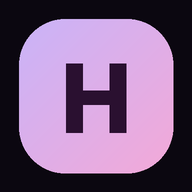
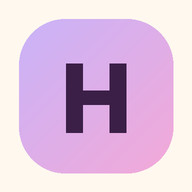
Cream light theme, number-free Welcome home, minimal Dashboard tab (#dash) with expandable cards, rings, bar sparklines; bars-only pastel charts; Nunito figures

diff --git a/public/index.html b/public/index.html
@@ -1,9 +1,9 @@
 <!doctype html>
 <html lang="en"><head><meta charset="utf-8"><meta name="viewport" content="width=device-width,initial-scale=1,viewport-fit=cover">
-<meta name="theme-color" content="#0b0710"><meta name="color-scheme" content="dark"><meta name="apple-mobile-web-app-capable" content="yes"><meta name="mobile-web-app-capable" content="yes">
+<meta name="theme-color" content="#fff8ef"><meta name="color-scheme" content="light"><meta name="apple-mobile-web-app-capable" content="yes"><meta name="mobile-web-app-capable" content="yes">
 <meta name="apple-mobile-web-app-status-bar-style" content="black-translucent"><meta name="apple-mobile-web-app-title" content="Hood Capital">
 <link rel="apple-touch-icon" href="/apple-touch-icon.png"><link rel="icon" href="/icon-192.png"><link rel="manifest" href="/manifest.webmanifest">
-<title>Hood Capital · Loan Dashboard</title><link rel="preload" href="/vendor/inter/inter-latin-wght-normal.woff2" as="font" type="font/woff2" crossorigin>
+<title>Hood Capital · Loan Dashboard</title><link rel="preload" href="/vendor/nunito/nunito-latin-wght-normal.woff2" as="font" type="font/woff2" crossorigin><link rel="preload" href="/vendor/inter/inter-latin-wght-normal.woff2" as="font" type="font/woff2" crossorigin>
 <script src="/vendor/chart.js/chart.umd.js"></script>
 <style>
 @font-face{font-family:'Inter';font-style:normal;font-display:swap;font-weight:100 900;src:url(/vendor/inter/inter-latin-wght-normal.woff2) format('woff2-variations'),url(/vendor/inter/inter-latin-wght-normal.woff2) format('woff2')}
@@ -203,20 +203,125 @@ dialog::backdrop{background:rgba(11,7,16,.75)}
 .rev{border-color:rgba(254,215,170,.35)!important}
 a{color:#f9a8d4}
 input[type=date]::-webkit-calendar-picker-indicator{filter:invert(.85) sepia(.4) hue-rotate(260deg)}
+/* ===== Cream light theme + minimal dashboard ===== */
+@font-face{font-family:'Nunito';font-style:normal;font-display:swap;font-weight:200 1000;src:url(/vendor/nunito/nunito-latin-wght-normal.woff2) format('woff2')}
+:root{color-scheme:light;--bg:#fff8ef;--card:#ffffff;--card2:#fffdf8;--line:#efe4d6;--line2:#e4dcf3;--ink:#3b1f47;--mut:#6e5578;
+ --pu:#6d3fb0;--pk:#a8326e;--mint-t:#0f6b4f;--rose-t:#a3324e;--peach-t:#94460f;--blue-t:#1d5a87;--gold-t:#6f5200;
+ --hd:#6d3fb0;--ok:#0f6b4f;--bad:#a3324e;--warn:#94460f;--ac:#a78bfa;--gold:#e8c872;--gold2:#f3d98b;--mintf:#a7f3d0}
+html,body{background:#fff8ef!important;color:#3b1f47!important}
+body{background-image:radial-gradient(600px 380px at 0% 0%,rgba(233,213,255,.55),transparent 70%),radial-gradient(520px 360px at 100% 10%,rgba(251,207,232,.45),transparent 70%),radial-gradient(560px 400px at 50% 100%,rgba(167,243,208,.30),transparent 70%)!important;background-attachment:fixed}
+.num,.kpi .v,.hv,.mv,td.n,.cfe span:last-child{font-family:Nunito,'Quicksand',ui-rounded,'SF Pro Rounded',system-ui,sans-serif!important;font-weight:800;letter-spacing:-.01em}
+header{background:linear-gradient(180deg,rgba(250,243,255,.92),rgba(255,246,236,.92))!important;-webkit-backdrop-filter:blur(10px);backdrop-filter:blur(10px);border-image:none!important;border-bottom:0!important;box-shadow:0 6px 24px rgba(160,120,180,.10);color:#3b1f47}
+.brand{background:linear-gradient(90deg,#6d3fb0,#a8326e)!important;-webkit-background-clip:text!important;background-clip:text!important}
+.brand small{-webkit-text-fill-color:#6e5578!important;color:#6e5578!important}
+.logo{color:#3b1f47!important;box-shadow:0 4px 14px rgba(196,181,253,.6)!important}
+header .tag{background:#fef3c7!important;color:#6f5200!important;border-color:#e8c872!important}
+nav button{color:#5b3f68!important}nav button:hover{background:rgba(196,181,253,.18)!important}
+nav button.on{background:#ffffff!important;color:#3b1f47!important;border-color:#e4dcf3!important;box-shadow:0 3px 12px rgba(167,139,250,.28)!important}
+.card{background:#ffffff!important;border:1px solid #f1e8dc!important;border-radius:22px!important;box-shadow:0 6px 22px rgba(180,140,120,.10)!important;color:#3b1f47}
+.bar h2,section>.bar h2,dialog h3,#login h2{color:#6d3fb0!important}section>.bar h2::after{color:#a8326e!important}
+.card b{color:#6d3fb0!important}.rev>.bar b{color:#94460f!important}.lbc .nm{color:#3b1f47!important}
+.kpi::before{background:linear-gradient(180deg,#c4b5fd,#f9a8d4)!important;box-shadow:none!important}
+.kpi .l{color:#6e5578!important}.kpi .v{color:#3b1f47!important;font-size:22px!important}.kpi.bad .v{color:#a3324e!important}.kpi.bad::before{background:#fda4af!important}
+.kpi .gr.up{color:#0f6b4f!important}.kpi .gr.dn{color:#a3324e!important}.kx{font-size:11.5px;color:#6e5578;margin-top:2px}
+.mut{color:#6e5578!important}
+th{background:#f7f0fd!important;color:#6d3fb0!important;border-bottom:1px solid #e4dcf3!important}
+td{color:#3b1f47;border-bottom-color:#f4ebe0!important}tr:nth-child(even) td{background:#fffaf3!important}tr:hover td{background:#fbf4ff!important}
+.tw{background:#fff!important;border-color:#f1e8dc!important}
+tr.overdue td{background:#fff1f3!important}tr.overdue td:first-child{box-shadow:inset 3px 0 0 #fda4af}tr.defaulted td{color:#6e5578!important}
+.st.active{background:#e0f2fe!important;color:#1d5a87!important;border-color:#bae6fd!important}
+.st.paid{background:#dcfce7!important;color:#0f6b4f!important;border-color:#a7f3d0!important}
+.st.overdue{background:#ffe4e8!important;color:#a3324e!important;border-color:#fda4af!important}
+.st.defaulted{background:#f1ecf5!important;color:#5b4a66!important;border-color:#e4dcf3!important}
+input,select,textarea{background:#fffdf9!important;border:1px solid #e4dcf3!important;color:#3b1f47!important}
+input::placeholder,textarea::placeholder{color:#6e5578!important}
+input:focus,select:focus,textarea:focus{border-color:#c4b5fd!important;box-shadow:0 0 0 3px rgba(196,181,253,.35)!important}
+select option{background:#fff;color:#3b1f47}
+input[type=date]::-webkit-calendar-picker-indicator{filter:none!important}
+.b{background:#ffffff!important;border:1px solid #e4dcf3!important;color:#3b1f47!important}
+.b:hover{border-color:#e8c872!important;background:#fffaf0!important}.b:active,.mini summary:active,.fold summary:active{transform:scale(.97)}
+.b.p,.p{background:linear-gradient(135deg,#a7f3d0,#f3d98b)!important;color:#3b1f47!important;border:1px solid #e8c872!important;box-shadow:0 4px 14px rgba(232,200,114,.35)!important}
+.b.d,button.d{color:#a3324e!important;border-color:#fda4af!important}
+#export{background:linear-gradient(135deg,#a7f3d0,#f3d98b)!important;color:#3b1f47!important;border:2px solid #e8c872!important;box-shadow:0 3px 12px rgba(232,200,114,.45)!important}
+#cur{background:#fff!important}
+a{color:#0f6b4f!important;text-decoration:underline;text-decoration-color:#e8c872;text-decoration-thickness:2px;text-underline-offset:3px}
+.exp .menu{background:#fff!important;border-color:#e4dcf3!important}.exp .menu a{color:#3b1f47!important;text-decoration:none;border-color:#f4ebe0!important}.exp .menu a:hover{background:#fffaf0!important}
+.exp summary.b{color:#3b1f47!important}
+dialog{background:#fffdf8!important;border:1px solid #f1e8dc!important;color:#3b1f47!important;box-shadow:0 20px 60px rgba(120,80,110,.25)!important}
+dialog::backdrop{background:rgba(255,248,239,.7)!important}.g label,.calc label,.cap{color:#6e5578!important}
+#toast{background:#3b1f47!important;color:#fff!important;border-color:#3b1f47!important}
+.seg button{background:#fff!important;border-color:#e4dcf3!important;color:#5b3f68!important}
+.seg button.on{background:linear-gradient(135deg,#e9d5ff,#fbcfe8)!important;border-color:#c4b5fd!important;color:#3b1f47!important;box-shadow:none!important}
+.err,.od{color:#a3324e!important}.dt{color:#6f5200!important}.inc,.cfe .in{color:#0f6b4f!important}.expc,.cfe .exp{color:#1d5a87!important}.cfe .out{color:#94460f!important}
+.cfe{border-top-color:#f4ebe0!important}.cfe.overdue{background:#fff1f3!important}.cfe.due_today{background:#fef9c3!important}
+.cfday.today{border:1px solid #f3d98b!important;box-shadow:0 0 0 3px #fef3c7!important}.odbox{border-left:4px solid #fda4af!important}
+.lbc .rk{color:#a8326e!important}.lbc .st2{color:#6e5578!important}.lbc .st2 b{color:#3b1f47!important}
+.lbc.gold{border-color:#e8c872!important}.lbc.bronze{border-color:#fed7aa!important}.lbc.silver{border-color:#e2e8f0!important}
+.rev{border-color:#fed7aa!important}
+/* minimal dashboard */
+.hero{position:relative;overflow:hidden;padding:22px!important;margin-bottom:14px;background:linear-gradient(135deg,#ffffff,#fff6fb)!important}
+.blobs{position:absolute;inset:0;width:100%;height:100%;pointer-events:none}.hero-in{position:relative}
+.hl{font-size:13px;font-weight:700;color:#6d3fb0;letter-spacing:.04em;text-transform:uppercase}
+.hv{font-size:42px;line-height:1.1;margin:6px 0 10px;color:#3b1f47}
+.hs{display:flex;flex-wrap:wrap;gap:6px 16px;font-size:14px;color:#5b3f68}.hs b{color:#3b1f47;font-size:16px}.hs small{flex:1 1 100%}
+.pbar{flex:1 1 100%;height:10px;border-radius:99px;background:#f1e8dc;overflow:hidden;margin-top:6px}.pbar i{display:block;height:100%;border-radius:99px}
+.spark{margin-top:10px;height:44px}.spark svg{width:100%;height:44px}
+.mini3{display:grid;grid-template-columns:repeat(3,1fr);gap:12px;margin-bottom:14px}
+.mini{padding:0!important;cursor:pointer;transition:transform .15s,box-shadow .15s}.mini:hover{transform:translateY(-2px);box-shadow:0 10px 26px rgba(180,140,120,.16)!important}
+.mini summary{list-style:none;display:grid;grid-template-columns:auto 1fr;grid-template-areas:"ic ml" "ic mv" "ic ms";column-gap:12px;padding:16px;align-items:center}
+.mini summary::-webkit-details-marker,.fold summary::-webkit-details-marker{display:none}
+.ic{grid-area:ic;width:46px;height:46px;border-radius:16px;display:grid;place-items:center;font-size:22px}
+.ic.mint{background:#d1fae5}.ic.peach{background:#ffedd5}.ic.rose{background:#ffe4e8}
+.ml{grid-area:ml;font-size:13px;font-weight:600;color:#6e5578}.mv{grid-area:mv;font-size:28px;line-height:1.1;color:#3b1f47}.ms{grid-area:ms;font-size:12.5px;color:#6e5578}
+.mini.rose .mv{color:#a3324e}.mini[open]{box-shadow:0 0 0 2px #e9d5ff,0 10px 26px rgba(180,140,120,.14)!important}
+.more{display:flex;gap:14px;align-items:center;padding:0 16px 16px;font-size:13.5px;color:#3b1f47;border-top:1px dashed #f1e8dc;padding-top:12px}
+.ring{width:64px;height:64px;flex:0 0 64px}.ring text{font:800 11px Nunito,system-ui,sans-serif;fill:#3b1f47}
+.fold{padding:0!important;margin-bottom:12px}.fold>summary{list-style:none;display:flex;justify-content:space-between;align-items:center;padding:16px 18px;cursor:pointer;font-weight:700;color:#6d3fb0;font-size:15px}
+.fold>summary .chev{transition:transform .2s;font-size:22px;color:#a78bfa}.fold[open]>summary .chev{transform:rotate(90deg)}
+.fold>*:not(summary){margin:0 14px 14px}.fold .kpis{margin:0 14px 14px}.fold .tw{margin:0 14px 14px}
+.chip{display:inline-block;padding:1px 9px;border-radius:99px;font-size:12px;font-weight:700;margin-left:6px}.chip.rose{background:#ffe4e8;color:#a3324e}
+.sm2 button{min-height:36px!important;font-size:14px!important}
+@media (max-width:700px){.mini3{grid-template-columns:1fr;gap:10px}.hv{font-size:36px}.mini summary{padding:14px}.mv{font-size:24px}}
+.kpi .v{overflow-wrap:anywhere}@media (max-width:700px){.kpi .v{font-size:20px!important}}
+#v-home{padding-top:6px}.welcome{position:relative;overflow:hidden;padding:26px 6px 22px}.wblob{position:absolute;right:-10px;top:-6px;width:300px;height:120px;opacity:.95;pointer-events:none}
+.wi{position:relative}.wh{font-family:Nunito,ui-rounded,system-ui,sans-serif;font-weight:900;font-size:30px;color:#3b1f47;letter-spacing:-.01em}.wd{font-size:14px;font-weight:600;color:#6d3fb0;margin-top:2px}
+.tiles{display:grid;grid-template-columns:repeat(auto-fill,minmax(210px,1fr));gap:14px;margin:8px 0 22px}
+.tile{display:grid;grid-template-columns:auto 1fr;grid-template-areas:"ic tl" "ic tv" "ic ts";column-gap:12px;align-items:center;text-align:left;font:inherit;color:#3b1f47;padding:18px!important;cursor:pointer;transition:transform .15s,box-shadow .15s}
+.tile:hover{transform:translateY(-2px);box-shadow:0 12px 28px rgba(180,140,120,.16)!important}.tile:active{transform:scale(.97)}
+.tile .ic{grid-area:ic}.tl{grid-area:tl;font-size:13px;font-weight:600;color:#6e5578}.tv{grid-area:tv;font-size:26px;line-height:1.15;color:#3b1f47}.tv.late{color:#a3324e}.ts{grid-area:ts;font-size:12.5px;color:#6e5578}
+.ic.lav{background:#f3e8ff}.ic.gold{background:#fef3c7}.ic.pink{background:#fce7f3}.ic.blue{background:#e0f2fe}
+.wlinks{display:flex;flex-wrap:wrap;gap:10px}
+@media (max-width:700px){.tiles{grid-template-columns:1fr 1fr;gap:10px}.tile{grid-template-columns:1fr;grid-template-areas:"ic" "tl" "tv" "ts";row-gap:4px;padding:14px!important}.tv{font-size:22px}.wh{font-size:26px}.wblob{width:220px;opacity:.8}.wlinks .b{flex:1 1 100%}}
+.tile.vis{display:flex;flex-direction:column;align-items:stretch;gap:10px}.tile.vis .tl{display:flex;align-items:center;gap:10px;font-size:15px;font-weight:700;color:#3b1f47}
+.ic.sm3{width:36px;height:36px;border-radius:12px;font-size:18px;background:#f3e8ff;display:inline-grid;place-items:center}
+.tvis{display:block;min-height:70px}.hbars{width:100%;height:70px;display:block}.pbar.big{height:16px;margin-top:26px}
+.tile.wide{grid-column:1/-1}.dots{display:flex;flex-wrap:wrap;gap:7px}.dots i,.lg i{width:16px;height:16px;border-radius:50%;display:inline-block}
+.lg{display:flex;flex-wrap:wrap;gap:4px 10px;align-items:center}.lg i{width:10px;height:10px;margin-right:-6px}
+i.ac{background:#c4b5fd}i.ds{background:#fed7aa}i.od{background:#fb9fb1;box-shadow:0 0 0 2px #ffe4e8}i.pd{background:#a7f3d0}i.df{background:#d6cfe0}
+@media (max-width:700px){.tile.vis{grid-column:1/-1}}
 </style></head><body>
 <div id="login" class="card hide"><h2><span class="logo">H</span>Hood Capital</h2><p class="mut">Loan Dashboard · admin sign in</p>
 <form id="lf"><input name="username" placeholder="Username" value="admin" required><input name="password" type="password" placeholder="Password" required>
 <div class="err" id="lerr"></div><button class="b p" style="width:100%">Sign in</button></form></div>
 <div id="app" class="hide">
 <header><h1><span class="logo">H</span><span class="brand">Hood Capital<small>Loan Dashboard</small></span> <span class="tag">EXAMPLE DATA</span></h1>
-<nav><button data-v="dash" class="on">Dashboard</button><button data-v="loans">Loans</button><button data-v="borrowers">Borrowers</button><button data-v="repayments">Repayments</button><button data-v="cash">📅 Cash flow</button><button data-v="calc">🧮 Calculator</button><button data-v="growth">📈 Growth</button><button data-v="leaders">🏆 Leaderboard</button></nav>
+<nav><button data-v="home" class="on">🏠 Home</button><button data-v="dash">Dashboard</button><button data-v="loans">Loans</button><button data-v="borrowers">Borrowers</button><button data-v="repayments">Repayments</button><button data-v="cash">📅 Cash flow</button><button data-v="calc">🧮 Calculator</button><button data-v="growth">📈 Growth</button><button data-v="leaders">🏆 Leaderboard</button></nav>
 <select id="cur" title="Currency"></select><span class="exp"><a class="b sm p" id="export" href="/api/export.xlsx" download>⬇ Export</a><details id="expm"><summary class="b sm" aria-label="More export options">CSV ▾</summary><div class="menu"><a href="/api/export/borrowers.csv" download>Borrowers CSV</a><a href="/api/export/loans.csv" download>Loans CSV</a><a href="/api/export/repayments.csv" download>Repayments CSV</a></div></details></span><button class="b sm" id="logout">Log out</button></header>
 <main>
-<section id="v-dash">
- <div class="kpis" id="kpis"></div>
- <div class="charts"><div class="card"><b>Monthly disbursements vs collections</b><canvas id="c1" height="120"></canvas></div>
- <div class="card"><b>Loans by status</b><canvas id="c2" height="180"></canvas></div></div>
- <div class="bar"><h2>Overdue loans</h2></div><div class="tw"><table id="t-od"></table></div>
+<section id="v-home"><div class="welcome"><svg class="wblob" viewBox="0 0 300 120" aria-hidden="true"><path d="M220 -10c50 5 90 40 75 80s-70 50-110 30-45-60-20-90 30-22 55-20z" fill="#f3e8ff"/><path d="M20 100c10-30 60-40 85-20s15 50-15 55-80-10-70-35z" fill="#dcfce7"/><circle cx="160" cy="25" r="10" fill="#fde68a"/><circle cx="185" cy="95" r="6" fill="#fbcfe8"/></svg>
+ <div class="wi"><div class="wh">Welcome back ✨</div><div class="wd" id="w-date"></div><p class="mut" style="margin:6px 0 0">Here's how Hood Capital is doing today.</p></div></div>
+ <div class="tiles" id="tiles"></div>
+ <div class="wlinks"><button class="b" onclick="view('dash')">📊 Open full dashboard</button><button class="b" onclick="view('cash')">📅 Cash flow</button><button class="b" onclick="view('calc')">🧮 Calculator</button></div>
+</section>
+<section id="v-dash" class="hide">
+ <div class="hero card" id="hero"><svg class="blobs" viewBox="0 0 400 200" preserveAspectRatio="none" aria-hidden="true"><defs><linearGradient id="bg1" x1="0" x2="1"><stop offset="0" stop-color="#e9d5ff"/><stop offset="1" stop-color="#fbcfe8"/></linearGradient><linearGradient id="bg2" x1="0" x2="1"><stop offset="0" stop-color="#a7f3d0"/><stop offset="1" stop-color="#fde68a"/></linearGradient></defs><path d="M300 -20c60 10 110 60 90 120s-90 70-140 40-60-90-20-130 40-35 70-30z" fill="url(#bg1)" opacity=".75"/><path d="M-30 150c20-50 90-60 130-30s30 90-20 100-130-20-110-70z" fill="url(#bg2)" opacity=".55"/><circle cx="250" cy="160" r="18" fill="#fed7aa" opacity=".7"/></svg>
+  <div class="hero-in"><div class="hl">✨ Equity today</div><div class="hv num" id="h-eq">—</div><div class="hs" id="h-sub"></div><div id="h-spark" class="spark"></div></div></div>
+ <div class="mini3" id="mini3"></div>
+ <details class="fold card" id="f-num"><summary><span>📊 All the numbers</span><span class="chev">›</span></summary><div class="kpis" id="kpis"></div></details>
+ <details class="fold card" id="f-chart"><summary><span>🌸 Charts</span><span class="chev">›</span></summary>
+  <div class="seg sm2" id="dseg"><button data-c="c1" class="on">Lent vs collected</button><button data-c="c2">By status</button></div>
+  <div class="dch" data-c="c1"><canvas id="c1" height="160"></canvas></div><div class="dch hide" data-c="c2"><canvas id="c2" height="200"></canvas></div></details>
+ <details class="fold card" id="f-od"><summary><span>🌷 Overdue loans <span class="chip rose" id="odn"></span></span><span class="chev">›</span></summary><div class="tw"><table id="t-od"></table></div></details>
 </section>
 <section id="v-loans" class="hide"><div class="bar"><h2>Loans</h2><input id="lq" placeholder="Search borrower / #id"><select id="ls"><option value="">All statuses</option><option>active</option><option>overdue</option><option>paid</option><option>defaulted</option></select><button class="b p" onclick="loanForm()">+ New loan</button></div><div class="tw"><table id="t-loans"></table></div></section>
 <section id="v-borrowers" class="hide"><div class="bar"><h2>Borrowers</h2><input id="bq" placeholder="Search name, phone, email, ID"><button class="b p" onclick="borrowerForm()">+ New borrower</button></div><div class="tw"><table id="t-borrowers"></table></div></section>
@@ -253,11 +358,11 @@ input[type=date]::-webkit-calendar-picker-indicator{filter:invert(.85) sepia(.4)
 <dialog id="dlg"><form id="df" method="dialog"></form></dialog><div id="toast"></div>
 <script src="/lib.js"></script>
 <script>
-const C={violet:'#c4b5fd',indigo:'#a78bfa',green:'#a7f3d0',coral:'#fda4af',amber:'#fed7aa',fuchsia:'#f9a8d4',blue:'#bae6fd',cyan:'#bae6fd',grey:'#d9cde6',teal:'#a7f3d0'};
-if(window.Chart){Object.assign(Chart.defaults,{color:'#e9d5ff',borderColor:'#2e2238'});Chart.defaults.font.family="Inter,system-ui,-apple-system,sans-serif";
- Object.assign(Chart.defaults.plugins.tooltip,{backgroundColor:'rgba(29,18,38,.96)',borderColor:'#f9a8d4',borderWidth:1,titleColor:'#fff',bodyColor:'#e9e3ff',padding:10,cornerRadius:10,boxPadding:4});
- Chart.defaults.plugins.legend.labels.color='#e9d5ff';Chart.defaults.plugins.legend.labels.usePointStyle=true;Chart.defaults.elements.bar.borderRadius=5;Chart.defaults.elements.line.borderWidth=2.5;Chart.defaults.elements.point.radius=2.5;
- Chart.defaults.datasets.doughnut={...(Chart.defaults.datasets.doughnut||{}),borderColor:'#140d1a',borderWidth:3};Chart.defaults.scale.grid.color='#2a1f33';Chart.defaults.scale.ticks.color='#cbbcd9'}
+const C={violet:'#b9a3f5',indigo:'#a78bfa',green:'#6fd6ae',coral:'#f49fb0',amber:'#f6b98a',fuchsia:'#e88ac0',blue:'#8ccbf0',cyan:'#7fc8e8',grey:'#cfc3d9',teal:'#6fd6ae',lav:'#d4bff7',gold:'#e8c872'};
+if(window.Chart){Object.assign(Chart.defaults,{color:'#5b3f68',borderColor:'#efe4d6'});Chart.defaults.font.family="Inter,system-ui,-apple-system,sans-serif";
+ Object.assign(Chart.defaults.plugins.tooltip,{backgroundColor:'rgba(255,255,255,.97)',borderColor:'#e4dcf3',borderWidth:1,titleColor:'#3b1f47',bodyColor:'#3b1f47',padding:10,cornerRadius:10,boxPadding:4});
+ Chart.defaults.plugins.legend.labels.color='#5b3f68';Chart.defaults.plugins.legend.labels.usePointStyle=true;Chart.defaults.elements.bar.borderRadius=8;Chart.defaults.elements.bar.borderSkipped=false;Chart.defaults.elements.line.borderWidth=2.5;Chart.defaults.elements.point.radius=2.5;
+ Chart.defaults.datasets.doughnut={...(Chart.defaults.datasets.doughnut||{}),borderColor:'#ffffff',borderWidth:3};Chart.defaults.scale.grid.color='#f1e8dc';Chart.defaults.scale.ticks.color='#6e5578'}
 const $=s=>document.querySelector(s);let CUR='XAF',charts={},cache={};
 const esc=s=>String(s??'').replace(/[&<>"']/g,c=>({'&':'&amp;','<':'&lt;','>':'&gt;','"':'&quot;',"'":'&#39;'}[c]));
 const money=v=>{try{return new Intl.NumberFormat('fr-CM',{style:'currency',currency:CUR,maximumFractionDigits:CUR==='XAF'||CUR==='XOF'?0:2}).format(v||0)}catch{return (v||0).toLocaleString()+' '+CUR}};
@@ -286,15 +391,15 @@ $('#c2loan').onclick=()=>{const o=calcIn();loanForm(null,null,{principal:o.princ
 const pct=v=>v==null?'<div class="gr mut">— vs prev.</div>':`<div class="gr ${v>=0?'up':'dn'}">${v>=0?'▲':'▼'} ${Math.abs(v).toLocaleString('fr-FR',{maximumFractionDigits:1})}% vs prev.</div>`;
 async function loadGrowth(){const g=await api('/growth?period='+$('#gp').value);$('#capi').value=g.starting_capital;$('#gempty').classList.toggle('hide',!g.empty);const c=g.current,gp=g.growth_pct,lbl=g.period==='week'?'this week':'this month';
  $('#gk').innerHTML=[['Lent '+lbl,'lent',1],['Collected '+lbl,'collected',1],['Interest earned '+lbl,'interest_earned',1],['New loans '+lbl,'new_loans'],['Active borrowers','active_borrowers'],['New borrowers','new_borrowers'],['Outstanding book','outstanding_book',1],['Cumulative profit','cumulative_profit',1],['Equity','equity',1],['Cash on hand','cash_on_hand',1],['Out on loan','on_loan',1]]
-  .map(([l,k,m])=>`<div class="card kpi"><div class="l">${l}</div><div class="v">${m?money(c[k]):c[k]}</div>${pct(gp[k])}</div>`).join('');
+  .map(([l,k,m])=>`<div class="card kpi"><div class="l">${l}</div><div class="v num" title="${m?money(c[k]):c[k]}">${m?cm(c[k]):c[k]}</div>${pct(gp[k])}</div>`).join('');
  const s=g.series,L=s.map(x=>g.period==='week'?fd(x.period):fd(x.period.slice(0,7))),xt={title:{display:true,text:g.period==='week'?'Week starting (DD/MM/YYYY)':'Month (MM/YYYY)'}},opt={responsive:true,animation:false,plugins:{legend:{position:'bottom'},tooltip:{callbacks:{title:i=>(g.period==='week'?'Week of ':'Month ')+i[0].label}}}},mo={...opt,scales:{x:xt,y:{beginAtZero:true,ticks:{callback:v=>money(v)}}}};
  const mk=(id,cfg)=>{charts[id]?.destroy();charts[id]=new Chart($('#'+id),cfg)};
- mk('g5',{type:'bar',data:{labels:L,datasets:[{label:'Revenue (interest collected)',data:s.map(x=>x.interest_earned),backgroundColor:C.amber,order:2},{type:'line',label:'Equity',data:s.map(x=>x.equity),borderColor:C.fuchsia,backgroundColor:C.fuchsia,pointRadius:4,tension:.2,order:1}]},
+ mk('g5',{type:'bar',data:{labels:L,datasets:[{label:'Revenue (interest collected)',data:s.map(x=>x.interest_earned),backgroundColor:C.amber,order:2},{label:'Equity',data:s.map(x=>x.equity),backgroundColor:C.violet,order:1}]},
   options:{...mo,interaction:{mode:'index',intersect:false},plugins:{...opt.plugins,tooltip:{callbacks:{title:i=>(g.period==='week'?'Week of ':'Month ')+i[0].label,label:c=>`${c.dataset.label}: ${money(c.parsed.y)}`,afterBody:it=>{const x=s[it[0].dataIndex];return [`Cash on hand: ${money(x.cash_on_hand)}`,`Out on loan: ${money(x.on_loan)}`,`Write-offs: ${money(x.write_offs)}`]}}}}}});
  mk('g1',{type:'bar',data:{labels:L,datasets:[{label:'Lent',data:s.map(x=>x.lent),backgroundColor:C.violet},{label:'Collected',data:s.map(x=>x.collected),backgroundColor:C.green}]},options:mo});
- mk('g2',{type:'bar',data:{labels:L,datasets:[{label:'Interest earned',data:s.map(x=>x.interest_earned),backgroundColor:C.amber},{type:'line',label:'Cumulative profit',data:s.map(x=>x.cumulative_profit),borderColor:C.fuchsia,tension:.2}]},options:mo});
- mk('g3',{type:'line',data:{labels:L,datasets:[{label:'Outstanding book',data:s.map(x=>x.outstanding_book),borderColor:C.coral,backgroundColor:'rgba(253,164,175,.15)',fill:true,tension:.2}]},options:mo});
- mk('g4',{type:'bar',data:{labels:L,datasets:[{label:'New loans',data:s.map(x=>x.new_loans),backgroundColor:C.blue},{label:'New borrowers',data:s.map(x=>x.new_borrowers),backgroundColor:C.green},{type:'line',label:'Active borrowers',data:s.map(x=>x.active_borrowers),borderColor:C.fuchsia}]},options:{...opt,scales:{x:xt,y:{beginAtZero:true,ticks:{precision:0}}}}})}
+ mk('g2',{type:'bar',data:{labels:L,datasets:[{label:'Interest earned',data:s.map(x=>x.interest_earned),backgroundColor:C.amber},{label:'Cumulative profit',data:s.map(x=>x.cumulative_profit),backgroundColor:C.fuchsia}]},options:mo});
+ mk('g3',{type:'bar',data:{labels:L,datasets:[{label:'Outstanding book',data:s.map(x=>x.outstanding_book),backgroundColor:C.lav}]},options:mo});
+ mk('g4',{type:'bar',data:{labels:L,datasets:[{label:'New loans',data:s.map(x=>x.new_loans),backgroundColor:C.violet},{label:'New borrowers',data:s.map(x=>x.new_borrowers),backgroundColor:C.blue},{label:'Active borrowers',data:s.map(x=>x.active_borrowers),backgroundColor:C.gold}]},options:{...opt,scales:{x:xt,y:{beginAtZero:true,ticks:{precision:0}}}}})}
 $('#gp').onchange=loadGrowth;
 $('#caps').onclick=async()=>{try{await api('/settings',{method:'PUT',body:{starting_capital:$('#capi').value}});toast('Starting capital saved');loadGrowth()}catch(e){alert(e.message)}};
 async function loadLeaders(){const r=await api('/leaderboard?sort='+$('#lbs').value);const md={gold:'🥇',silver:'🥈',bronze:'🥉'};
@@ -313,20 +418,55 @@ function show(on){$('#app').classList.toggle('hide',!on);$('#login').classList.t
 $('#lf').onsubmit=async e=>{e.preventDefault();const f=new FormData(e.target);try{await api('/login',{method:'POST',body:Object.fromEntries(f)});show(true);boot()}catch(x){$('#lerr').textContent=x.message}};
 $('#logout').onclick=async()=>{await api('/logout',{method:'POST'});show(false)};
 document.querySelectorAll('nav button').forEach(b=>b.onclick=()=>view(b.dataset.v));
-function view(v){document.querySelectorAll('nav button').forEach(b=>b.classList.toggle('on',b.dataset.v===v));['dash','loans','borrowers','repayments','cash','calc','growth','leaders'].forEach(x=>$('#v-'+x).classList.toggle('hide',x!==v));refresh(v)}
+function view(v){document.querySelectorAll('nav button').forEach(b=>b.classList.toggle('on',b.dataset.v===v));['home','dash','loans','borrowers','repayments','cash','calc','growth','leaders'].forEach(x=>$('#v-'+x).classList.toggle('hide',x!==v));if(location.hash.slice(1)!==v)history.replaceState(null,'','#'+v);document.querySelector('nav button.on')?.scrollIntoView({inline:'nearest',block:'nearest'});scrollTo(0,0);refresh(v)}
+window.addEventListener('hashchange',()=>{const v=location.hash.slice(1);if(document.querySelector(`nav button[data-v="${v}"]`)&&!$('#app').classList.contains('hide'))view(v)});
 const cur=()=>document.querySelector('nav button.on').dataset.v;
 const deb=(f,ms=250)=>{let t;return(...a)=>{clearTimeout(t);t=setTimeout(()=>f(...a),ms)}};
 ['#lq','#ls'].forEach(s=>$(s).oninput=deb(loadLoans));['#bq'].forEach(s=>$(s).oninput=deb(loadBorrowers));['#rq','#rm','#rf','#rt'].forEach(s=>$(s).oninput=deb(loadRepayments));
 $('#cur').onchange=async e=>{await api('/settings',{method:'PUT',body:{currency:e.target.value}});CUR=e.target.value;refresh(cur());toast('Currency set to '+CUR)};
-async function boot(){const s=await api('/settings');CUR=s.currency;const opts=['XAF','XOF','NGN','EUR','USD','GBP'];if(!opts.includes(CUR))opts.unshift(CUR);$('#cur').innerHTML=opts.map(c=>`<option ${c===CUR?'selected':''}>${c}</option>`).join('');view('dash')}
-function refresh(v){({cash:loadCash,calc:calc,growth:loadGrowth,leaders:loadLeaders,dash:loadDash,loans:loadLoans,borrowers:loadBorrowers,repayments:loadRepayments})[v]()}
+async function boot(){const s=await api('/settings');CUR=s.currency;const opts=['XAF','XOF','NGN','EUR','USD','GBP'];if(!opts.includes(CUR))opts.unshift(CUR);$('#cur').innerHTML=opts.map(c=>`<option ${c===CUR?'selected':''}>${c}</option>`).join('');{const v=location.hash.slice(1);view(document.querySelector(`nav button[data-v="${v}"]`)?v:'home')}}
+function refresh(v){({home:loadHome,cash:loadCash,calc:calc,growth:loadGrowth,leaders:loadLeaders,dash:loadDash,loans:loadLoans,borrowers:loadBorrowers,repayments:loadRepayments})[v]()}
 const st=s=>`<span class="st ${s}">${s}</span>`;
 function loanRows(rows){return `<tr><th>#</th><th>Borrower</th><th>Principal</th><th>Interest</th><th>Term</th><th>Disbursed</th><th>Due date</th><th>Total due</th><th>Paid</th><th>Outstanding</th><th>Arrears</th><th>Next due</th><th>Status</th><th></th></tr>`+
  rows.map(l=>`<tr class="${l.effective_status}"><td>${l.id}</td><td>${esc(l.borrower_name)}</td><td class="n">${money(l.principal)}</td><td>${l.model==='short'?l.interest_pct+'% · '+money(l.expected_interest):l.interest_rate+'%/yr'}</td><td>${l.model==='short'?l.term_days+'d'+(l.installments>1?' · '+l.installments+' inst.':' · lump'):l.term_months+'m '+l.repayment_frequency}</td><td>${fd(l.start_date)}</td><td class="${l.outstanding>0.01&&l.end_date<TODAY()?'od':l.outstanding>0.01&&l.end_date===TODAY()?'dt':''}">${fd(l.end_date)}</td><td class="n">${money(l.total_due)}</td><td class="n">${money(l.total_paid)}</td><td class="n">${money(l.outstanding)}</td><td class="n">${l.arrears?money(l.arrears):'—'}</td><td class="${l.outstanding>0.01&&l.next_due_date&&l.next_due_date<TODAY()?'od':l.outstanding>0.01&&l.next_due_date===TODAY()?'dt':''}">${l.outstanding>0.01?fd(l.next_due_date):'—'}</td><td>${st(l.effective_status)}</td>
  <td>${l.outstanding>0?`<button class="b sm p" onclick="payForm(${l.id})">Record payment</button> `:''}<button class="b sm" onclick="sched(${l.id})">Schedule</button> <button class="b sm" onclick="loanForm(${l.id})">Edit</button> <button class="b sm d" onclick="del('loans',${l.id})">Delete</button></td></tr>`).join('')||'<tr><td class="mut">No loans</td></tr>'}
+document.addEventListener('toggle',e=>{if(e.target.id==='f-chart'&&e.target.open)Object.values(charts).forEach(c=>c?.resize())},true);
+const cm=v=>{v=+v||0;const a=Math.abs(v),s=v<0?'−':'';return s+(a>=1e6?(a/1e6).toFixed(a>=1e7?0:1).replace(/\.0$/,'')+'M':a>=1e3?Math.round(a/1e3)+'k':Math.round(a))+' '+CUR};
+const spark=vals=>{if(!vals.length)return '';const P=['#c4b5fd','#f9a8d4','#a7f3d0','#fed7aa','#e9d5ff','#bae6fd','#f3d98b'],w=220,hh=44,mx=Math.max(...vals.map(v=>Math.abs(v)))||1,bw=w/vals.length;
+ return `<svg viewBox="0 0 ${w} ${hh}" preserveAspectRatio="none">${vals.map((v,i)=>{const bh=Math.max(3,Math.abs(v)/mx*(hh-4));return `<rect x="${(i*bw+bw*.15).toFixed(1)}" y="${(hh-bh).toFixed(1)}" width="${(bw*.7).toFixed(1)}" height="${bh.toFixed(1)}" rx="${Math.min(4,bw*.35).toFixed(1)}" fill="${P[i%P.length]}"/>`}).join('')}</svg>`};
+const ring=(pct,col)=>{pct=Math.max(0,Math.min(100,pct||0));const c=2*Math.PI*20;return `<svg class="ring" viewBox="0 0 48 48"><circle cx="24" cy="24" r="20" fill="none" stroke="#f1e8dc" stroke-width="6"/><circle cx="24" cy="24" r="20" fill="none" stroke="${col}" stroke-width="6" stroke-linecap="round" stroke-dasharray="${(c*pct/100).toFixed(1)} ${c.toFixed(1)}" transform="rotate(-90 24 24)"/><text x="24" y="28" text-anchor="middle">${Math.round(pct)}%</text></svg>`};
+const pbar=(pct,col)=>`<div class="pbar"><i style="width:${Math.max(0,Math.min(100,pct||0))}%;background:${col}"></i></div>`;
+document.addEventListener('click',e=>{const b=e.target.closest('#dseg button');if(!b)return;document.querySelectorAll('#dseg button').forEach(x=>x.classList.toggle('on',x===b));document.querySelectorAll('.dch').forEach(x=>x.classList.toggle('hide',x.dataset.c!==b.dataset.c));charts[b.dataset.c]?.resize()});
+async function loadHome(){const d=new Date();$('#w-date').textContent=d.toLocaleDateString('en-GB',{weekday:'long'})+' · '+d.toLocaleDateString('en-GB',{month:'long'});
+ const [s,g,gw,cf,loans]=await Promise.all([api('/summary'),api('/growth?period=month'),api('/growth?period=week'),api('/cashflow?range=next7'),api('/loans')]);const c=g.current;
+ const P=['#c4b5fd','#f9a8d4','#a7f3d0','#fed7aa','#e9d5ff','#bae6fd','#f3d98b'];
+ const bars=(vals)=>{const v=vals.map(x=>Math.max(0,x)),mx=Math.max(...v)||1,w=240,hh=70,bw=w/v.length;return `<svg class="hbars" viewBox="0 0 ${w} ${hh}" preserveAspectRatio="none" aria-hidden="true">${v.map((x,i)=>{const bh=Math.max(4,x/mx*(hh-6));return `<rect x="${(i*bw+bw*.14).toFixed(1)}" y="${(hh-bh).toFixed(1)}" width="${(bw*.72).toFixed(1)}" height="${bh.toFixed(1)}" rx="${Math.min(6,bw*.3).toFixed(1)}" fill="${P[i%P.length]}"/>`}).join('')}</svg>`};
+ const prog=(f,col)=>`<div class="pbar big"><i style="width:${(Math.max(0,Math.min(1,f||0))*100).toFixed(1)}%;background:${col}"></i></div>`;
+ const soon=new Set(cf.days.flatMap(x=>x.events.filter(e=>e.type==='expected').map(e=>e.loan_id)));
+ const cls=l=>l.effective_status==='overdue'?'od':l.effective_status==='paid'?'pd':l.effective_status==='defaulted'?'df':soon.has(l.id)?'ds':'ac';
+ const dots=loans.length?`<div class="dots">${loans.map(l=>`<i class="${cls(l)}"></i>`).join('')}</div>`:'<div class="mut">No loans yet — your first one will appear here 🌱</div>';
+ const avail=Math.max(0,c.cash_on_hand),dep=c.on_loan,coll=s.total_collected/((s.total_collected+s.total_outstanding)||1);
+ const T=[
+  ['growth','💜','Growing over time',bars(g.series.map(x=>x.equity)),'Equity, month by month'],
+  ['growth','🍯','Interest coming in',bars(gw.series.map(x=>x.interest_earned)),'Week by week'],
+  ['loans','🌸','Collected so far',prog(coll,'linear-gradient(90deg,#a7f3d0,#f3d98b)'),'Collected vs still expected'],
+  ['growth','🌿','Money at work',prog(dep/((avail+dep)||1),'linear-gradient(90deg,#c4b5fd,#f9a8d4)'),'Out on loan vs cash available'],
+  ['cash','🫧','Every loan at a glance',dots,'<span class="lg"><i class="ac"></i>active <i class="ds"></i>due soon <i class="od"></i>overdue <i class="pd"></i>paid <i class="df"></i>defaulted</span>']];
+ $('#tiles').innerHTML=T.map(([go,i,l,vis,sub],k)=>`<button class="tile card vis ${k===4?'wide':''}" onclick="view('${go}')"><span class="tl"><span class="ic sm3">${i}</span>${l}</span><span class="tvis">${vis}</span><span class="ts">${sub}</span></button>`).join('')}
 async function loadDash(){const s=await api('/summary');
+ Promise.all([api('/growth?period=month'),api('/cashflow?range=next7')]).then(([g,cf])=>{const c=g.current;$('#h-eq').textContent=cm(c.equity);
+  const avail=Math.max(0,c.cash_on_hand),dep=c.on_loan,tot=avail+dep;
+  $('#h-sub').innerHTML=`<span>💵 Cash available <b class="num">${cm(c.cash_on_hand)}</b></span><span>🌱 Out on loan <b class="num">${cm(dep)}</b></span>${pbar(tot?dep/tot*100:0,'linear-gradient(90deg,#a78bfa,#f472b6)')}<small class="mut">Capital deployed vs available</small>`;
+  $('#h-spark').innerHTML=spark(g.series.map(x=>x.equity));
+  const exp=cf.days.reduce((a,d)=>a+d.events.filter(e=>e.type==='expected').length,0),active=s.loans_by_status.active+s.loans_by_status.overdue,collPct=(s.total_collected/((s.total_collected+s.total_outstanding)||1))*100;
+  $('#mini3').innerHTML=[
+   ['🌿','mint','Active loans',active,`${cm(s.total_outstanding)} outstanding`,`${ring(collPct,'#34d399')}<div><b>Collected vs expected</b><br>${cm(s.total_collected)} of ${cm(s.total_collected+s.total_outstanding)}<br><a href="#" onclick="view('loans');return false">See all loans →</a></div>`],
+   ['⏰','peach','Due soon',exp,`${cm(cf.totals.in_expected)} in 7 days`,`<div><b>Due today</b> ${cm(cf.due_today_total)}<br>${cf.days.slice(0,3).map(d=>`${fd(d.date)} · ${cm(d.in_expected)}`).join('<br>')||'Nothing due 🎉'}<br><a href="#" onclick="view('cash');return false">Open cash flow →</a></div>`],
+   ['🌷','rose','Overdue',s.overdue_count,`${cm(s.overdue_amount)} late`,`${ring(s.loan_count?s.overdue_count/s.loan_count*100:0,'#f472b6')}<div><b>Share of loans overdue</b><br>${s.overdue_count} of ${s.loan_count} loans<br><a href="#" onclick="document.querySelector('#f-od').open=true;document.querySelector('#f-od').scrollIntoView({behavior:'smooth'});return false">Show overdue list →</a></div>`]]
+   .map(([i,t,l,v,sub,more])=>`<details class="mini card ${t}"><summary><span class="ic ${t}">${i}</span><span class="ml">${l}</span><span class="mv num">${v}</span><span class="ms">${sub}</span></summary><div class="more">${more}</div></details>`).join('');
+  $('#odn').textContent=s.overdue_count}).catch(()=>{});
  const k=[['Total lent',s.total_lent],['Total collected',s.total_collected],['Outstanding',s.total_outstanding],['Expected interest',s.expected_interest],['Overdue loans',s.overdue_count,1,1],['Overdue amount',s.overdue_amount,1],['Borrowers',s.borrower_count,0,1],['Loans',s.loan_count,0,1]];
- $('#kpis').innerHTML=k.map(([l,v,bad,cnt])=>`<div class="card kpi ${bad&&v?'bad':''}"><div class="l">${l}</div><div class="v">${cnt?v:money(v)}</div></div>`).join('');
+ $('#kpis').innerHTML=k.map(([l,v,bad,cnt])=>`<div class="card kpi ${bad&&v?'bad':''}" title="${cnt?v:money(v)}"><div class="l">${l}</div><div class="v num">${cnt?v:cm(v)}</div><div class="kx">${cnt?'':money(v)}</div></div>`).join('');
  const t=s.monthly_trends;charts.c1?.destroy();charts.c1=new Chart($('#c1'),{type:'bar',data:{labels:t.map(x=>fd(x.month)),datasets:[{label:'Disbursed',data:t.map(x=>x.disbursed),backgroundColor:C.violet},{label:'Collected',data:t.map(x=>x.collected),backgroundColor:C.green}]},options:{responsive:true,animation:false,plugins:{tooltip:{callbacks:{title:i=>'Month '+i[0].label,label:c=>`${c.dataset.label}: ${money(c.parsed.y)}`}}},scales:{x:{title:{display:true,text:'Month (MM/YYYY)'}},y:{title:{display:true,text:CUR},ticks:{callback:v=>money(v)}}}}});
  const b=s.loans_by_status;charts.c2?.destroy();charts.c2=new Chart($('#c2'),{type:'doughnut',data:{labels:Object.keys(b),datasets:[{data:Object.values(b),backgroundColor:[C.blue,C.green,C.coral,C.grey]}]},options:{animation:false}});
  $('#t-od').innerHTML=loanRows(await api('/loans?status=overdue'))}

diff --git a/server.js b/server.js
@@ -361,6 +361,7 @@ app.get('/api/export/:table.csv', wrap(async (req, res) => {
 }));
 
 app.use('/api', (req, res) => res.status(404).json({ error: 'Not found' }));
+app.use('/vendor/nunito', express.static(path.join(__dirname, 'node_modules/@fontsource-variable/nunito/files'), { maxAge: '30d' }));
 app.use('/vendor/inter', express.static(path.join(__dirname, 'node_modules/@fontsource-variable/inter/files'), { maxAge: '30d' }));
 app.use('/vendor/chart.js', express.static(path.join(__dirname, 'node_modules/chart.js/dist')));
 app.use(express.static(path.join(__dirname, 'public')));
